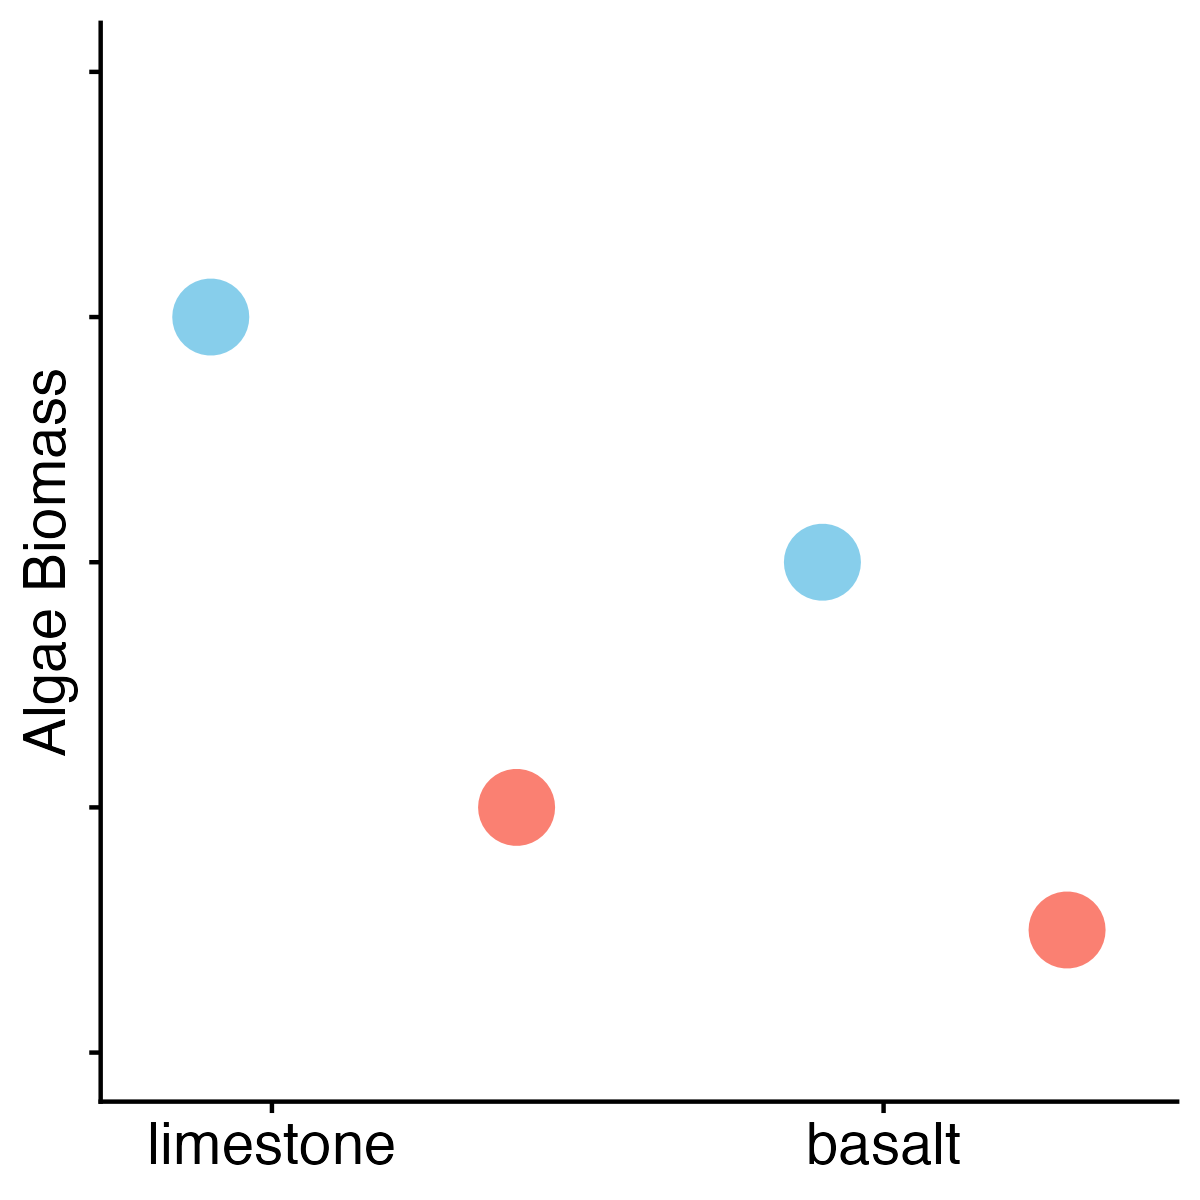
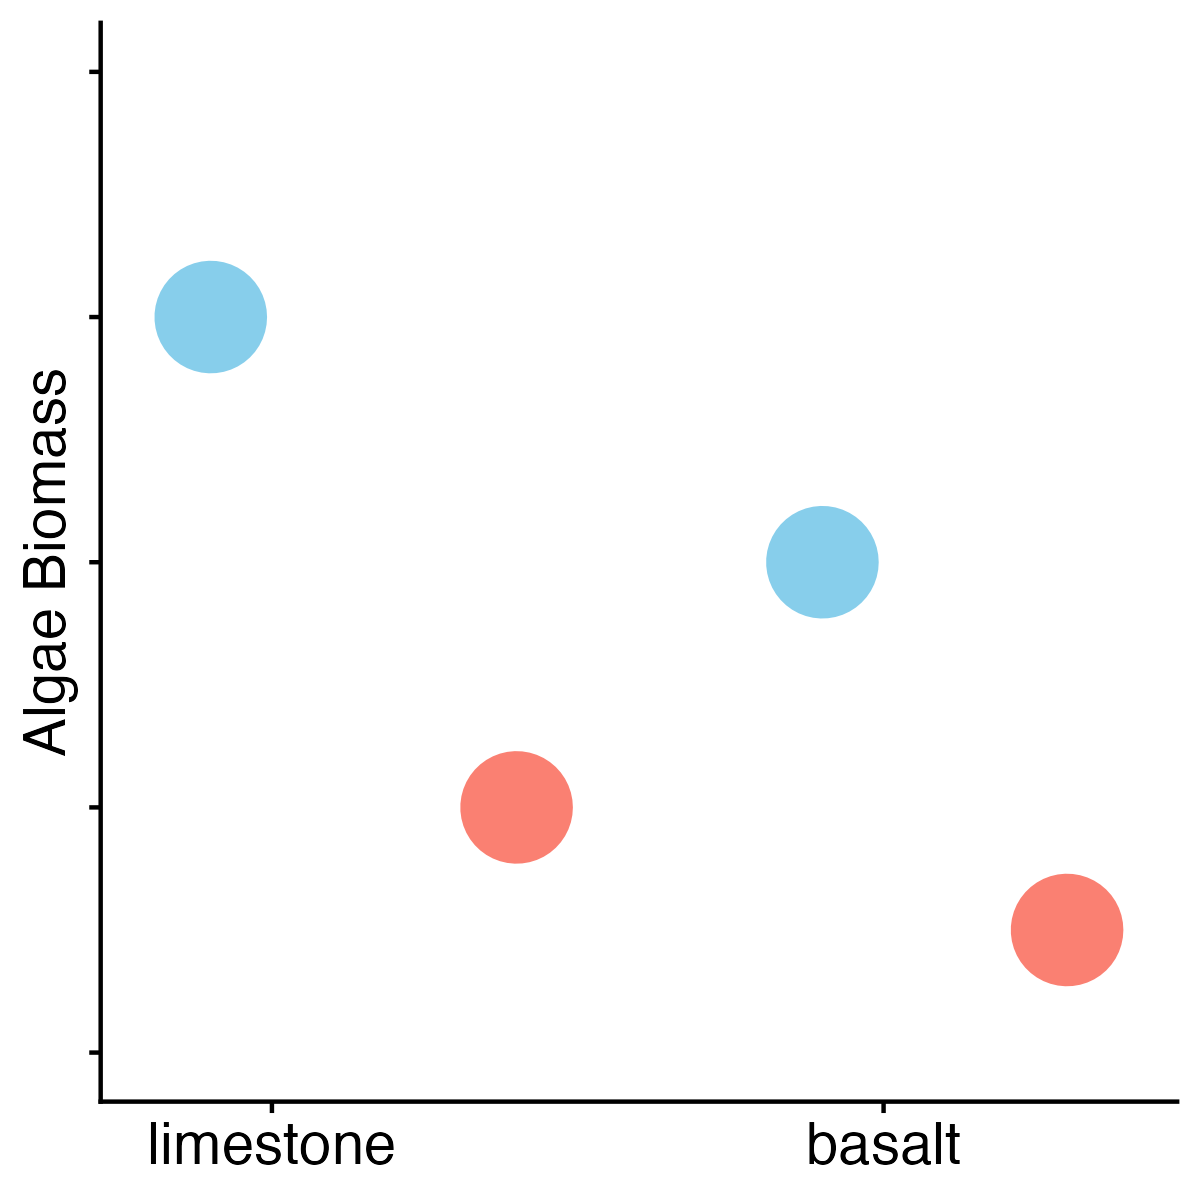
updated hyp figs

diff --git a/Lab_Notebook_MB/Hypothesis_figures.html b/Lab_Notebook_MB/Hypothesis_figures.html
@@ -123,7 +123,7 @@ pre > code.sourceCode > span > a:first-child::before { text-decoration: underlin
 <div class="cell">
 <div class="sourceCode cell-code" id="cb4"><pre class="sourceCode r code-with-copy"><code class="sourceCode r"><span id="cb4-1"><a href="#cb4-1" aria-hidden="true" tabindex="-1"></a><span class="co">#|code-fold: true</span></span>
 <span id="cb4-2"><a href="#cb4-2" aria-hidden="true" tabindex="-1"></a>base_plot<span class="ot">&lt;-</span><span class="fu">ggplot</span>(df, <span class="fu">aes</span>(x,y,<span class="at">color=</span>treatment))<span class="sc">+</span></span>
-<span id="cb4-3"><a href="#cb4-3" aria-hidden="true" tabindex="-1"></a>  <span class="fu">geom_point</span>(<span class="at">size=</span><span class="dv">8</span>)<span class="sc">+</span></span>
+<span id="cb4-3"><a href="#cb4-3" aria-hidden="true" tabindex="-1"></a>  <span class="fu">geom_point</span>(<span class="at">size=</span><span class="dv">12</span>)<span class="sc">+</span></span>
 <span id="cb4-4"><a href="#cb4-4" aria-hidden="true" tabindex="-1"></a>  <span class="fu">scale_color_manual</span>(<span class="at">values =</span> <span class="fu">c</span>(<span class="st">"ambient"</span> <span class="ot">=</span> <span class="st">"skyblue"</span>, <span class="st">"warm"</span> <span class="ot">=</span> <span class="st">"salmon"</span>))<span class="sc">+</span></span>
 <span id="cb4-5"><a href="#cb4-5" aria-hidden="true" tabindex="-1"></a>    <span class="fu">scale_x_continuous</span>(</span>
 <span id="cb4-6"><a href="#cb4-6" aria-hidden="true" tabindex="-1"></a>      <span class="at">limits =</span> <span class="fu">c</span>(<span class="dv">0</span>, <span class="dv">4</span>), </span>
@@ -176,7 +176,7 @@ pre > code.sourceCode > span > a:first-child::before { text-decoration: underlin
 <span id="cb9-5"><a href="#cb9-5" aria-hidden="true" tabindex="-1"></a>  <span class="at">treatment =</span> <span class="fu">c</span>(<span class="st">"ambient"</span>, <span class="st">"warm"</span>))</span>
 <span id="cb9-6"><a href="#cb9-6" aria-hidden="true" tabindex="-1"></a></span>
 <span id="cb9-7"><a href="#cb9-7" aria-hidden="true" tabindex="-1"></a><span class="fu">ggplot</span>(df2, <span class="fu">aes</span>(x,y, <span class="at">color=</span>treatment))<span class="sc">+</span></span>
-<span id="cb9-8"><a href="#cb9-8" aria-hidden="true" tabindex="-1"></a>  <span class="fu">geom_point</span>(<span class="at">size=</span><span class="dv">8</span>)<span class="sc">+</span></span>
+<span id="cb9-8"><a href="#cb9-8" aria-hidden="true" tabindex="-1"></a>  <span class="fu">geom_point</span>(<span class="at">size=</span><span class="dv">12</span>)<span class="sc">+</span></span>
 <span id="cb9-9"><a href="#cb9-9" aria-hidden="true" tabindex="-1"></a>  <span class="fu">scale_color_manual</span>(<span class="at">values =</span> <span class="fu">c</span>(<span class="st">"ambient"</span> <span class="ot">=</span> <span class="st">"skyblue"</span>, <span class="st">"warm"</span> <span class="ot">=</span> <span class="st">"salmon"</span>))<span class="sc">+</span></span>
 <span id="cb9-10"><a href="#cb9-10" aria-hidden="true" tabindex="-1"></a>    <span class="fu">scale_x_continuous</span>(</span>
 <span id="cb9-11"><a href="#cb9-11" aria-hidden="true" tabindex="-1"></a>      <span class="at">limits =</span> <span class="fu">c</span>(<span class="dv">0</span>, <span class="dv">8</span>), </span>
@@ -268,7 +268,7 @@ pre > code.sourceCode > span > a:first-child::before { text-decoration: underlin
 <div class="cell">
 <div class="sourceCode cell-code" id="cb15"><pre class="sourceCode r code-with-copy"><code class="sourceCode r"><span id="cb15-1"><a href="#cb15-1" aria-hidden="true" tabindex="-1"></a><span class="co">#|code-fold: true</span></span>
 <span id="cb15-2"><a href="#cb15-2" aria-hidden="true" tabindex="-1"></a>herb_plot<span class="ot">&lt;-</span><span class="fu">ggplot</span>(df, <span class="fu">aes</span>(x,y))<span class="sc">+</span></span>
-<span id="cb15-3"><a href="#cb15-3" aria-hidden="true" tabindex="-1"></a>  <span class="fu">geom_point</span>(<span class="at">size=</span><span class="dv">8</span>)<span class="sc">+</span></span>
+<span id="cb15-3"><a href="#cb15-3" aria-hidden="true" tabindex="-1"></a>  <span class="fu">geom_point</span>(<span class="at">size=</span><span class="dv">12</span>)<span class="sc">+</span></span>
 <span id="cb15-4"><a href="#cb15-4" aria-hidden="true" tabindex="-1"></a>    <span class="fu">scale_x_continuous</span>(</span>
 <span id="cb15-5"><a href="#cb15-5" aria-hidden="true" tabindex="-1"></a>      <span class="at">limits =</span> <span class="fu">c</span>(<span class="dv">0</span>, <span class="dv">4</span>), </span>
 <span id="cb15-6"><a href="#cb15-6" aria-hidden="true" tabindex="-1"></a>      <span class="at">breaks =</span> <span class="fu">c</span>(<span class="dv">1</span>, <span class="dv">3</span>), </span>
